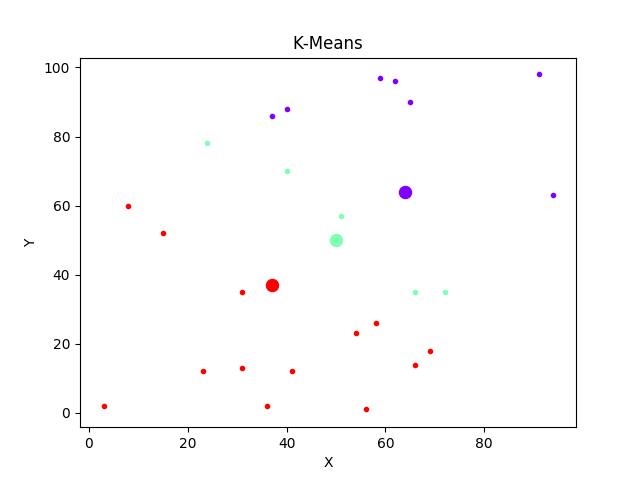
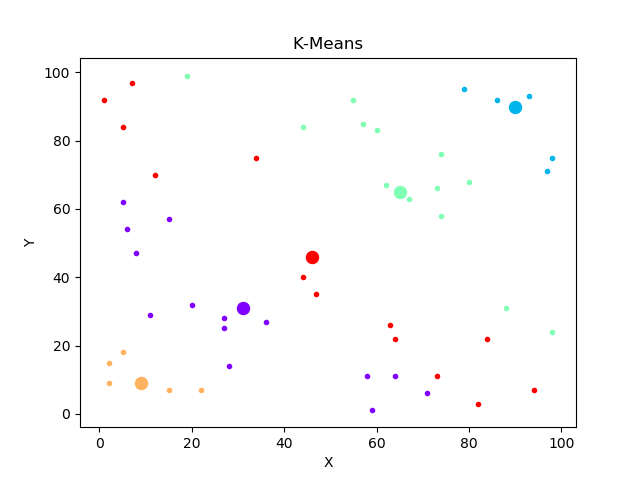
proper termination condition updated

diff --git a/k_means.py b/k_means.py
@@ -11,6 +11,7 @@ class Centroid:
     def __init__(self, pos):
         self.pos = pos
         self.points = []
+        self.previous_points = []
         self.color = None
 
 
@@ -40,18 +41,28 @@ class KMeans:
         Calls to update centroid mean to reflect mean of assigned points.
         """
         self.X = X
-        for epoch in range(epochs):
+        self.n_iters = 0
+        not_fit = True 
+        while not_fit:
             for point in X:
                 closest = self.assign_centroid(point)
                 closest.points.append(point)
 
-            self._update_centroids() if epoch != epochs - 1 else self._update_centroids(reset=False)
+            if len([c for c in self.centroids if c.points == c.previous_points]) == self.n_centroids:
+                not_fit = False
+                self._update_centroids(reset=False)
+            else:
+                self._update_centroids()
+
+            self.n_iters += 1
+
     
     def _update_centroids(self, reset=True):
         """
         Updates centroid position based on mean of assigned points.
         """
         for centroid in self.centroids:
+            centroid.previous_points = centroid.points
             x_cor = [x[0] for x in centroid.points]
             y_cor = [y[0] for y in centroid.points]
             try:
@@ -105,10 +116,11 @@ if __name__ == '__main__':
 
     # sample data
     r = lambda: np.random.randint(1, 100)
-    X = [[r(), r()] for _ in range(25)]
+    X = [[r(), r()] for _ in range(50)]
 
     # K-Means instance
-    kmeans = KMeans(n_centroids=3)
+    kmeans = KMeans(n_centroids=5)
     kmeans.fit(X, epochs=5)
+    print('Iterations: {0}'.format(kmeans.n_iters))
     kmeans.show()
 
